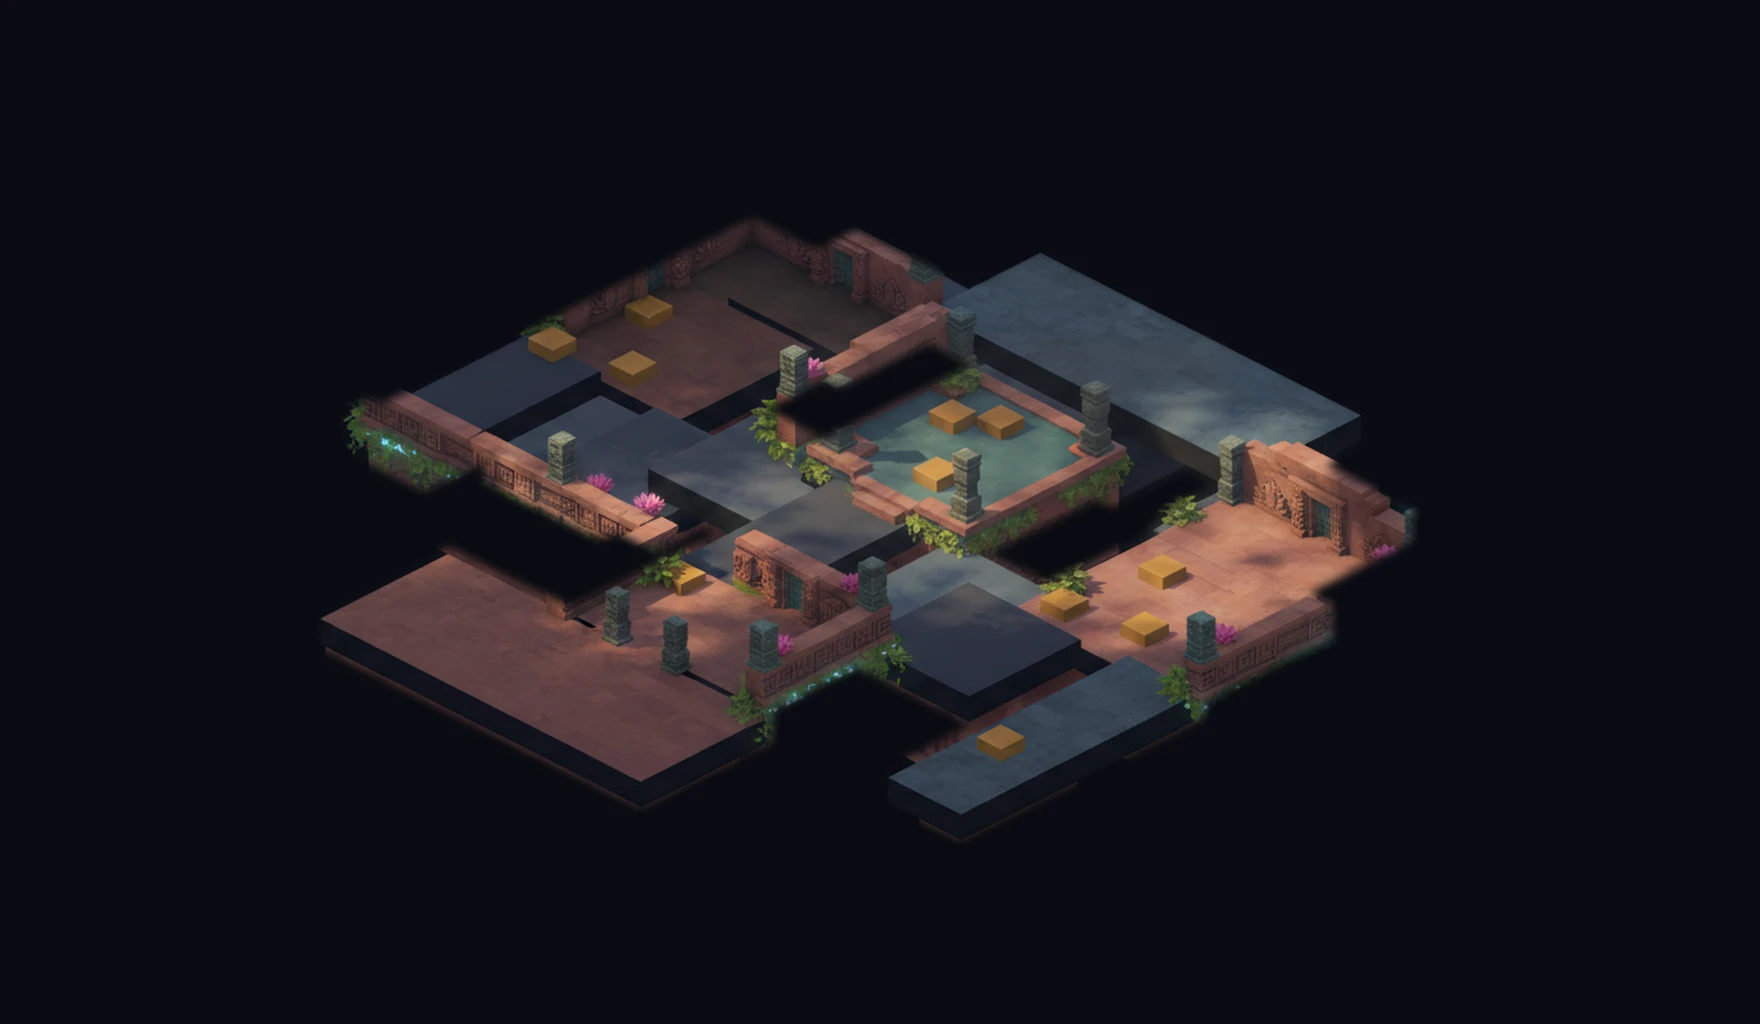
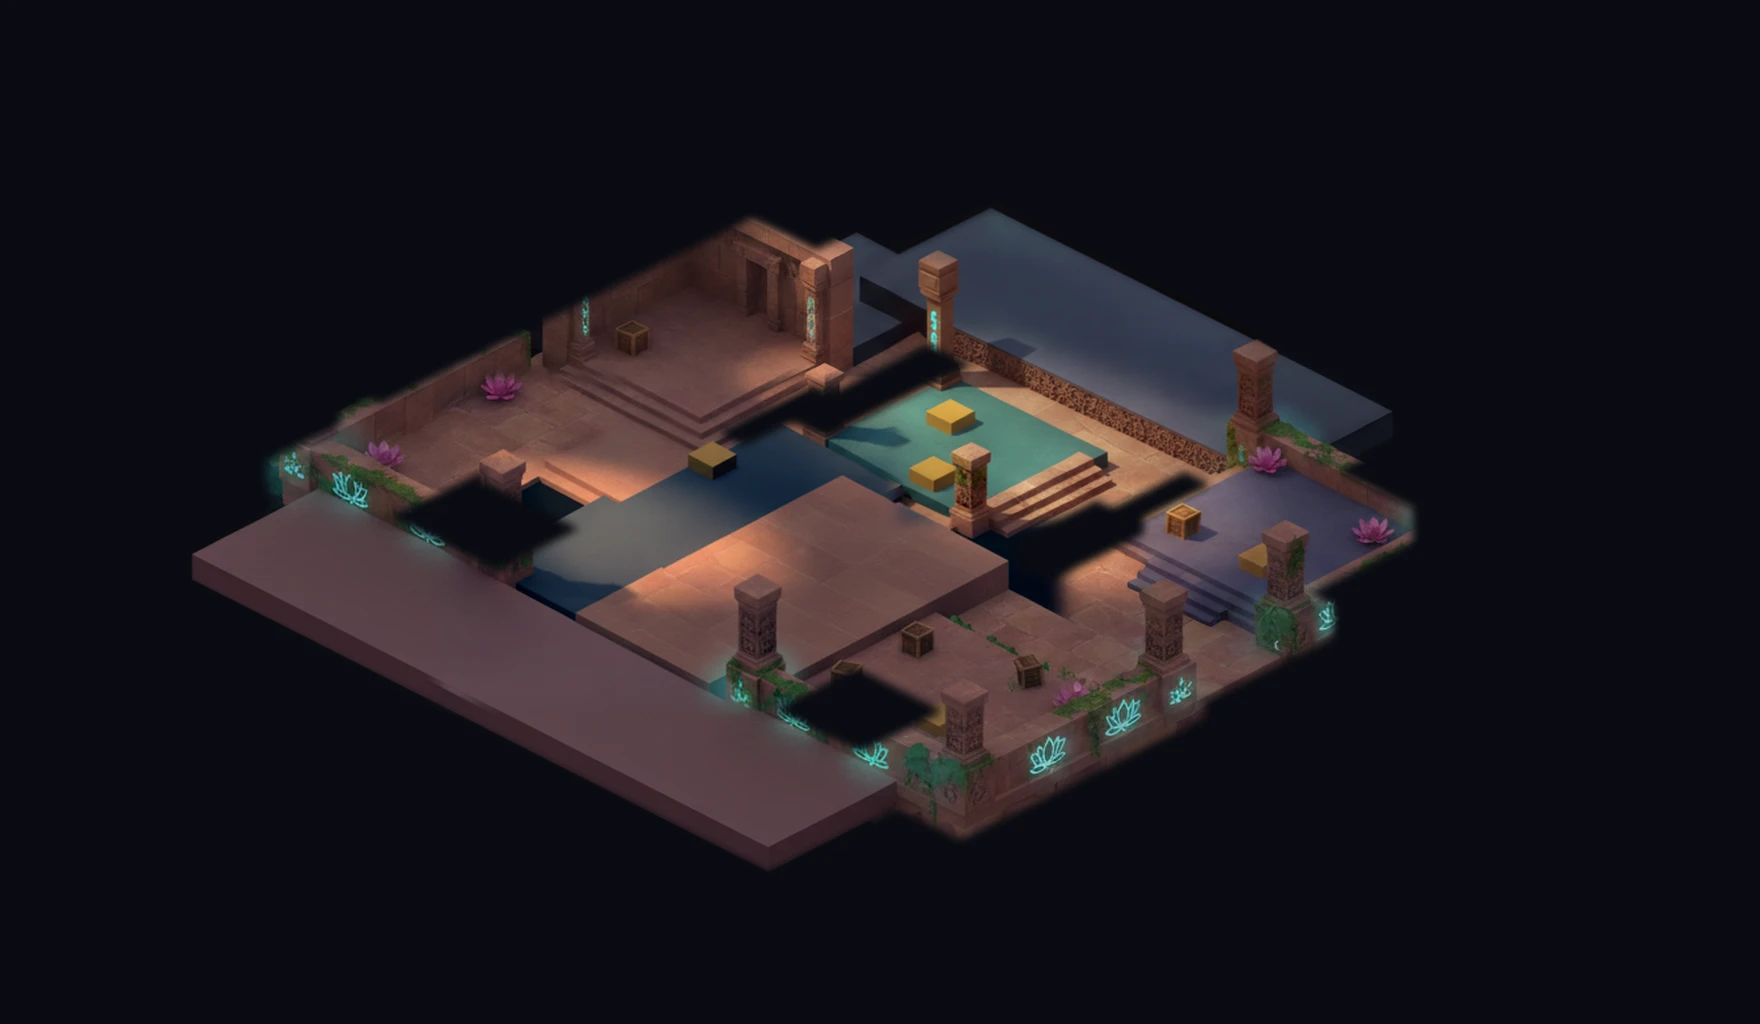
Connect map floors so players never walk the void; repaint all five
Owner-reported on Ascent: players walking on the background and spawns
visually detached. Audit confirmed it was systemic - every map had
adjacent floor plates authored as islands (ascent 10 detached pairs,
bind 14, haven 10, lotus 10, split 6) with movement paths cutting
across the gaps the paint faithfully leaves as void.

Geometry: plates reshaped/extended on all five maps so every adjacency
pair touches, every callout anchor sits on its own plate, and every
path polyline stays on the plate union. Spawns are now real attached
floors (haven/lotus attacker spawns became full-width bands feeding
their lanes; defender spawns grew floor under their door seams).
Teleporter edges (bind) are exempt by design - players beam, never
walk. Zero callout coordinate changes.

New permanent gate: scripts/map_floor_audit.py (exit 1 on any detached
pair / off-plate callout / off-floor path point) - all five maps clean.

Gates after reshaping: pacing 27.5-30.6s attacker rotates via spawn
with defenders strictly faster on every pair; balance 54.7-58.4%
attack on all maps; golden deliberately re-blessed (corridor waypoints
changed); suite green (145 passed).

Repaint: all five backdrops regenerated against the new guides with
the saved winning prompts (IoU 0.967-0.995, spill <= 0.121, seam
overlay checks on every newly connected spawn seam; 37 Gemini calls,
zero Ludo/Scenario). Thumbnails regenerated. Verified live: full
Ascent replay sampled at 16,701 movement waypoints, zero off-floor.
[…]

Changed region(s): [[0.0938, 0.1875, 0.8125, 0.8438]]

diff --git a/scripts/map_floor_audit.py b/scripts/map_floor_audit.py
@@ -1,0 +1,126 @@
+"""Floor-coverage gate: movement must stay on painted floor plates.
+
+The match backdrops are painted from the floor-region rects in
+data/maps/geometry/*.yaml -- anything outside those rects is void
+(background art, not walkable floor). Three checks per map:
+
+  1. every callout anchor sits on its own plate (no floating labels),
+  2. every adjacency pair's plates touch (shared boundary or slight
+     overlap) so the doorway seam has floor under it,
+  3. every movement polyline (geo.path, densely sampled) stays on the
+     union of plates -- players never walk on the background.
+
+Teleporter edges are exempt from checks 2 and 3: the gimmick beams
+players between the pads (the engine collapses the polyline to its two
+endpoints and the viewer draws a shaft), so there is intentionally no
+floor between them. Walked gimmicks (rotating/breakable doors) get no
+exemption.
+
+Exit code 1 when any map has findings. Run after touching
+data/maps/**, alongside the balance and pacing gates.
+
+Usage:
+    .venv-win\\Scripts\\python.exe scripts\\map_floor_audit.py
+"""
+
+from __future__ import annotations
+
+from esports_sim.registry import load_all
+from esports_sim.registry.loader import load_geometry
+from esports_sim.schemas.map import GimmickType
+
+EPS = 0.75  # world units of forgiveness (sub-door-width)
+SAMPLE_STEP = 1.0
+
+
+def inside(pt: tuple[float, float], rects, eps: float = EPS) -> bool:
+    x, y = pt
+    return any(
+        r.x - eps <= x <= r.x + r.w + eps and r.y - eps <= y <= r.y + r.h + eps
+        for r in rects
+    )
+
+
+def rects_touch(a, b, eps: float = EPS) -> bool:
+    return not (
+        a.x + a.w + eps < b.x or b.x + b.w + eps < a.x
+        or a.y + a.h + eps < b.y or b.y + b.h + eps < a.y
+    )
+
+
+def sample(poly: list[tuple[float, float]], step: float = SAMPLE_STEP):
+    out: list[tuple[float, float]] = []
+    for i in range(1, len(poly)):
+        (x0, y0), (x1, y1) = poly[i - 1], poly[i]
+        d = ((x1 - x0) ** 2 + (y1 - y0) ** 2) ** 0.5
+        n = max(2, int(d / step))
+        for k in range(n + 1):
+            t = k / n
+            out.append((x0 + (x1 - x0) * t, y0 + (y1 - y0) * t))
+    return out
+
+
+def audit_map(m, geo) -> list[str]:
+    """All floor-coverage findings for one map (empty = clean)."""
+    findings: list[str] = []
+    regions = geo.regions
+    allrects = list(regions.values())
+    teleport_edges = {
+        frozenset(g.between)
+        for g in m.gimmicks
+        if g.type == GimmickType.TELEPORTER
+    }
+
+    for cid, c in sorted(m.callouts.items()):
+        r = regions.get(cid)
+        if r is None:
+            findings.append(f"callout {cid}: no region")
+        elif not inside((c.x, c.y), [r]):
+            findings.append(f"callout {cid}: anchor off own plate")
+
+    seen: set[tuple[str, str]] = set()
+    for a, nbrs in sorted(m.adjacency.items()):
+        for b in sorted(nbrs):
+            key = tuple(sorted((a, b)))
+            if key in seen:
+                continue
+            seen.add(key)
+            if frozenset((a, b)) in teleport_edges:
+                continue  # beamed, not walked; no floor expected
+            ra, rb = regions.get(a), regions.get(b)
+            if ra and rb and not rects_touch(ra, rb):
+                findings.append(f"detached plates: {a} <-> {b}")
+            poly = geo.path(a, b)
+            pts = sample([(p[0], p[1]) for p in poly])
+            off = sum(1 for p in pts if not inside(p, allrects))
+            if off:
+                findings.append(
+                    f"path in void: {a} -> {b} ({off}/{len(pts)} pts off-floor)"
+                )
+    return findings
+
+
+def main() -> None:
+    gd = load_all()
+    total = 0
+    for mid in sorted(gd.maps):
+        m = gd.maps[mid]
+        geo = load_geometry(mid)
+        if geo is None:
+            print(f"{mid:8s} no geometry -- skipped")
+            continue
+        findings = audit_map(m, geo)
+        total += len(findings)
+        status = "clean" if not findings else f"{len(findings)} finding(s)"
+        print(f"{mid:8s} {status}")
+        for f in findings:
+            print(f"         {f}")
+    print()
+    if total:
+        print(f"FAIL: {total} floor-coverage finding(s)")
+        raise SystemExit(1)
+    print("OK: all movement stays on painted floor")
+
+
+if __name__ == "__main__":
+    main()

diff --git a/docs/art-pipeline.md b/docs/art-pipeline.md
@@ -234,6 +234,23 @@ All five maps are painted and live in the viewer. The working chain:
 - Reusable scripts from the pass (scratchpad): `map_gate.py` (gate +
   spill + overlay + outside-mask), `croppaste.py` (surgical edits).
 
+## Map floor contract (v2 repaint, 2026-07-09)
+
+The paint can only be walked on if the GEOMETRY is walkable art:
+`scripts/map_floor_audit.py` is now a permanent gate — every adjacency
+pair's plates must touch, every callout center sits on its own plate,
+every path polyline stays on the plate union (teleporter edges exempt:
+players beam, never walk). When plates CONNECT in a geometry fix,
+re-audit the briefs' flavor lines: props that were legal on
+void-facing walls become seam-blockers (lotus's B-site mural painted
+onto the newly live spawn seam 4/4 until reworded to decorate the
+elevation drop instead). Repaint lessons: strip surgery (tight band on
+the offending wall, floors as slivers) beats whole-courtyard edits 3/3
+vs 0/3 on haven; scene-framing ("a flat teal stone floor") succeeds
+where change-requests ("drain the pool") fail; one surgical goal per
+Gemini call on dense dioramas; per-channel mean/std color transfer
+before every crop paste (scratchpad colorxfer.py).
+
 ## Word on engines (owner decision log)
 
 No game engine adoption for now. The office/PixiJS trigger: when
